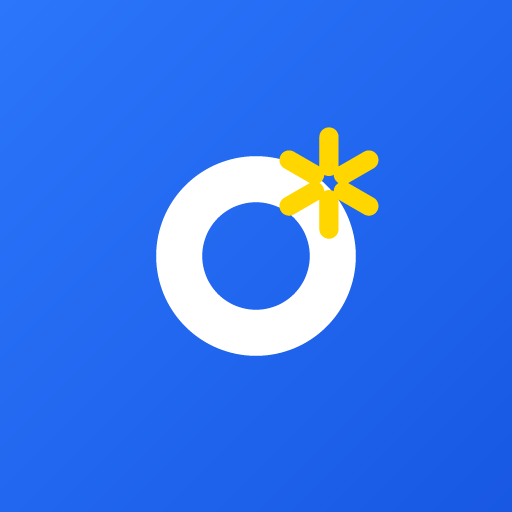
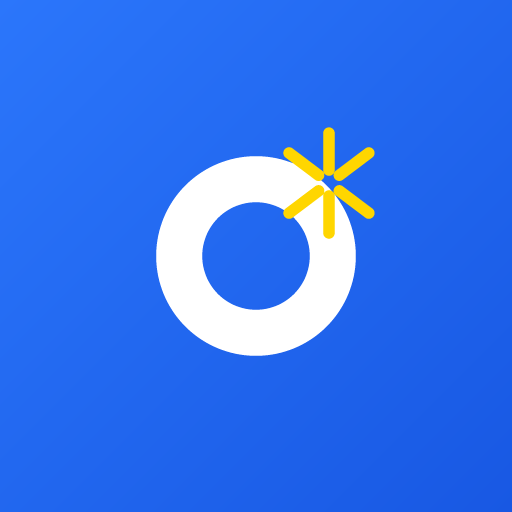
design(로고): 광선을 유스보이스 로고 비율에 맞춰 얇게
한끗독서와 같은 값. 로고를 픽셀 단위로 재니 선 굵기가 마크 지름의 약 8%
였는데 내 것은 21% 였다. 각도도 ±30° 가 아니라 실측 ±36~39°, 가운데
구멍도 더 작았다.

굵기 11%(R26·w6), 각도 ±37°, 구멍 0.26 으로 맞췄다.
8% 그대로 가면 32px 파비콘에서 흐려져 조금만 두껍게 했다.

Changed region(s): [[0.5312, 0.25, 0.75, 0.4688]]

diff --git a/make-icons.py b/make-icons.py
@@ -62,11 +62,17 @@ def seg_dist(px_, py, x1, y1, x2, y2):
         ((px_ - x1) * dx + (py - y1) * dy) / (dx * dx + dy * dy)))
     return math.hypot(px_ - (x1 + t * dx), py - (y1 + t * dy))
 
-def spark(cx, cy, R, w, inner_ratio=0.36):
+# 유스보이스 로고를 픽셀 단위로 재서 맞춘 값.
+# 선 굵기는 마크 지름의 약 8% 인데, 그대로 쓰면 32px 파비콘에서 흐려진다.
+# 11% 로 조금만 두껍게 해 눈에 띄게 얇으면서 작은 크기에서도 버티게 했다
+SPARK_ANGLE = 37      # 대각선 각도 (로고 실측 ±36~39)
+SPARK_INNER = 0.26    # 가운데 빈 구멍 / 바깥 반지름
+
+def spark(cx, cy, R, w, inner_ratio=SPARK_INNER, ang=SPARK_ANGLE):
     """유스보이스 마크 — 가운데가 빈 6갈래. 세로 2 + 대각선 4"""
     inner = R * inner_ratio
     segs = []
-    for a in (-90, 90, -150, -30, 150, 30):
+    for a in (-90, 90, -180 + ang, -ang, 180 - ang, ang):
         r = math.radians(a)
         segs.append((cx + math.cos(r)*inner, cy + math.sin(r)*inner,
                      cx + math.cos(r)*R,     cy + math.sin(r)*R))
@@ -149,7 +155,7 @@ def write_png(path, size, px_):
 # ── 한끗루틴 ────────────────────────────────────────────
 # 흰 고리 ◯ + 오른쪽 위 유스보이스 마크(노란 단색).
 # 마크 자리·크기는 원래 노란 점(cx134 cy60 r17)을 그대로 이어받는다
-RING  = lambda: [ring(96, 96, 40, 24), spark(134, 58, 24, 10)]
+RING  = lambda: [ring(96, 96, 40, 24), spark(134, 58, 26, 6)]
 BLUE  = ((0x2B, 0x76, 0xFB), (0x18, 0x58, 0xE3))   # 지금 아이콘에서 뽑은 색
 PINK  = ((0xFF, 0x00, 0x6C), (0xFF, 0x4D, 0x94))   # 관리자
 
